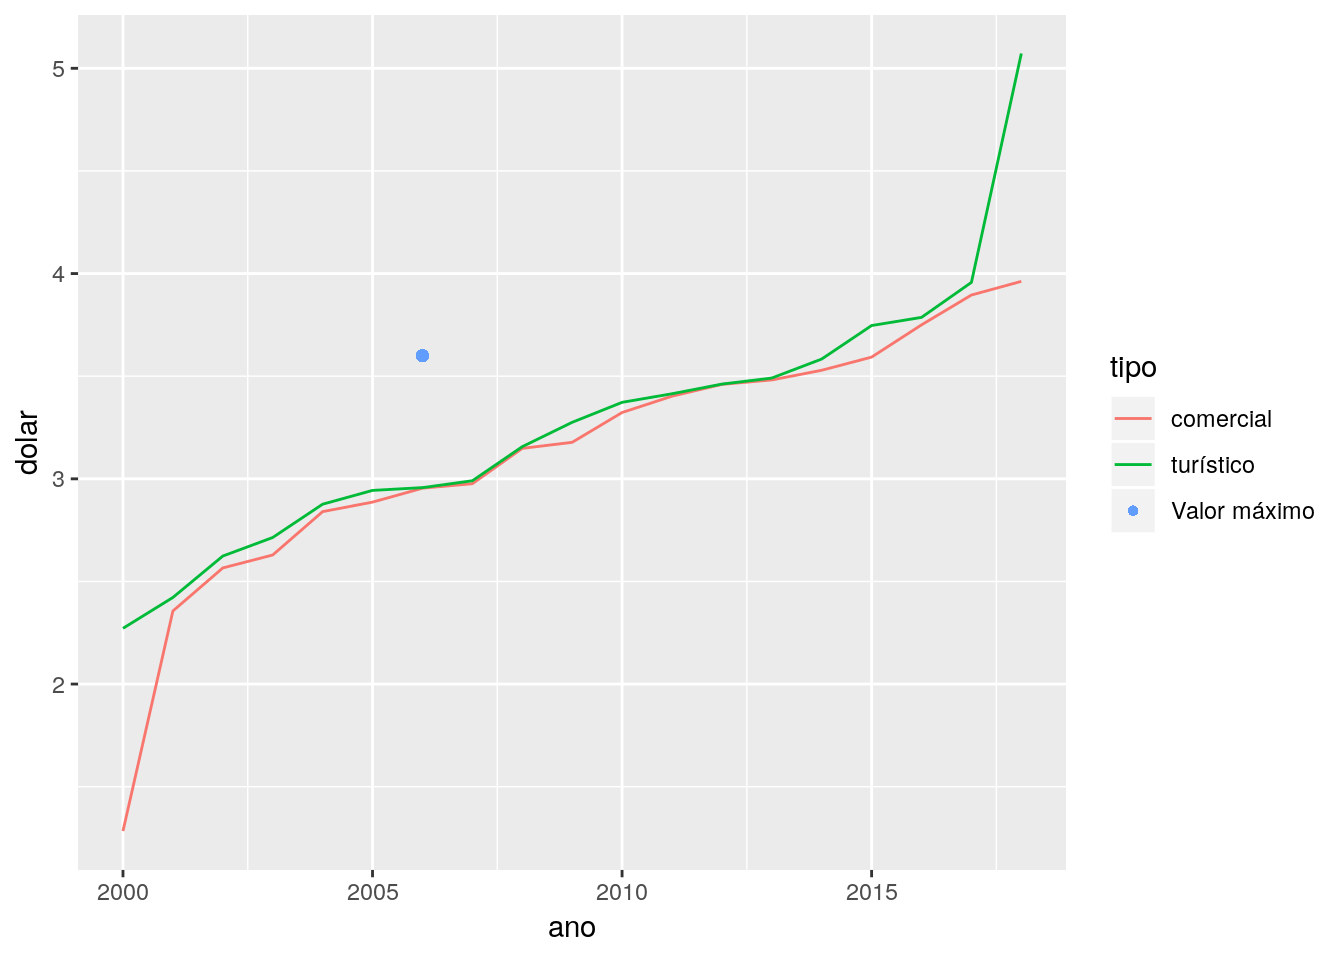
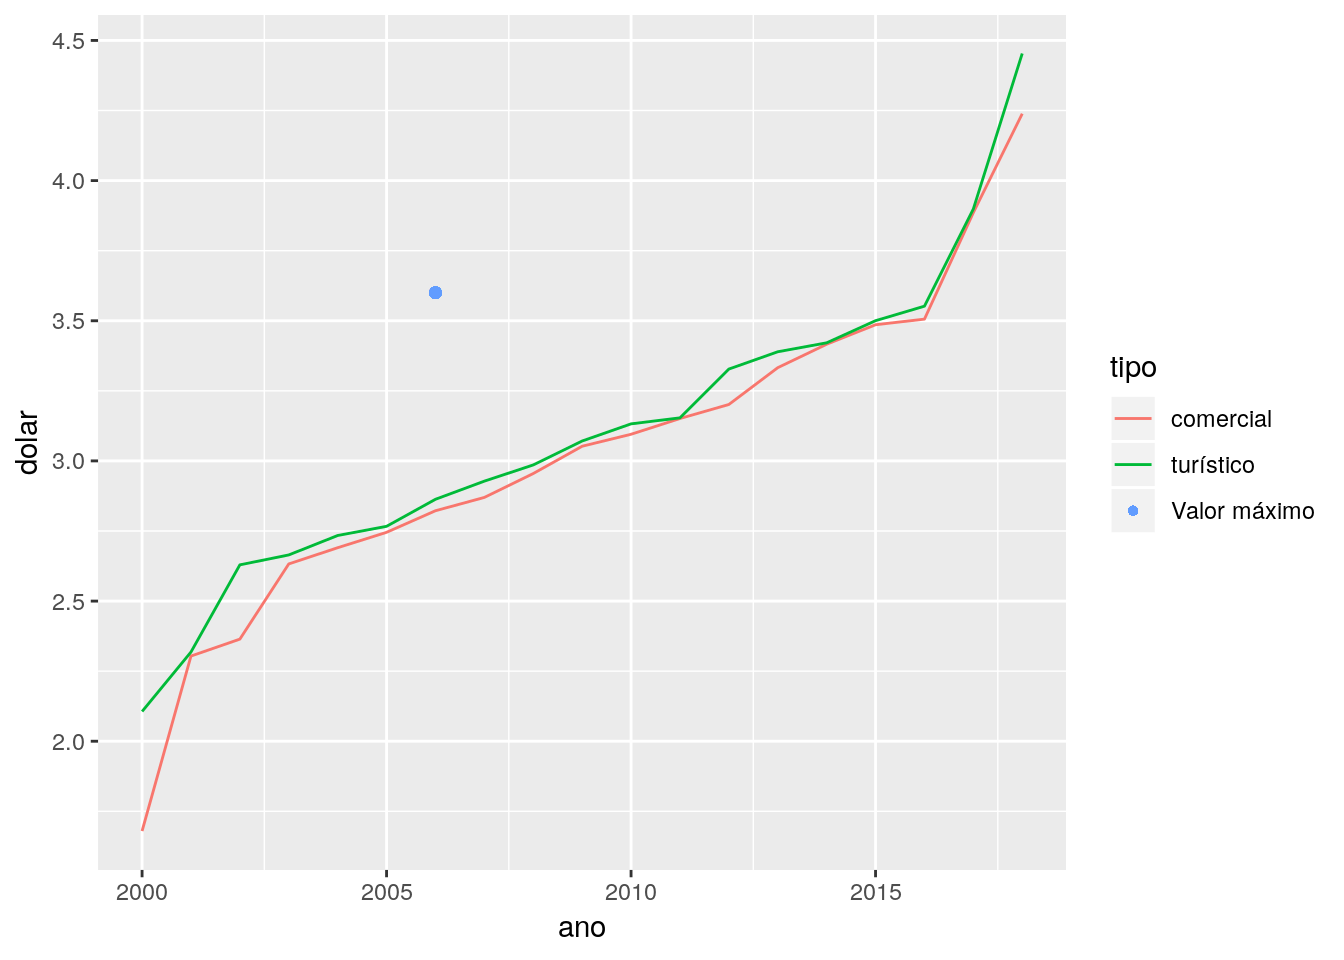
baseurl https://alemdamedia.netlify.com/

diff --git a/public/post/manipulando-os-simbolos-na-legenda-do-ggplot2/index.html b/public/post/manipulando-os-simbolos-na-legenda-do-ggplot2/index.html
@@ -331,7 +331,7 @@ df &lt;-
 str(df)</code></pre>
 <pre><code>## &#39;data.frame&#39;:    38 obs. of  3 variables:
 ##  $ ano  : int  2000 2000 2001 2001 2002 2002 2003 2003 2004 2004 ...
-##  $ dolar: num  1.28 2.27 2.36 2.42 2.57 ...
+##  $ dolar: num  1.68 2.11 2.3 2.32 2.36 ...
 ##  $ tipo : Factor w/ 2 levels &quot;comercial&quot;,&quot;turístico&quot;: 1 2 1 2 1 2 1 2 1 2 ...</code></pre>
 <p>Nossos dados estão na forma de um data.frame com três colunas e 30 linhas. Digamos que trata-se realmente da evolução anual do preço médio anual do dólar em relação ao real e que queremos plotar um gráfico de série temporal da cotação média do dólar, tipo. E que queremos adicionar também um ponto num local específico do plot, representando o preço máximo do dólar no ano em que a média e o valor máximo ficaram mais distantes. Podemos fazer isso sem dificuldades com o ggplot.</p>
 </div>

diff --git a/content/post/2018-10-08-manipulando-os-simbolos-na-legenda-do-ggplot2.html b/content/post/2018-10-08-manipulando-os-simbolos-na-legenda-do-ggplot2.html
@@ -29,7 +29,7 @@ df &lt;-
 str(df)</code></pre>
 <pre><code>## &#39;data.frame&#39;:    38 obs. of  3 variables:
 ##  $ ano  : int  2000 2000 2001 2001 2002 2002 2003 2003 2004 2004 ...
-##  $ dolar: num  1.28 2.27 2.36 2.42 2.57 ...
+##  $ dolar: num  1.68 2.11 2.3 2.32 2.36 ...
 ##  $ tipo : Factor w/ 2 levels &quot;comercial&quot;,&quot;turístico&quot;: 1 2 1 2 1 2 1 2 1 2 ...</code></pre>
 <p>Nossos dados estão na forma de um data.frame com três colunas e 30 linhas. Digamos que trata-se realmente da evolução anual do preço médio anual do dólar em relação ao real e que queremos plotar um gráfico de série temporal da cotação média do dólar, tipo. E que queremos adicionar também um ponto num local específico do plot, representando o preço máximo do dólar no ano em que a média e o valor máximo ficaram mais distantes. Podemos fazer isso sem dificuldades com o ggplot.</p>
 </div>
